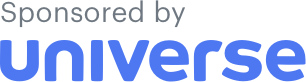
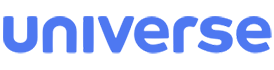
Add information about the companies which use the gem

diff --git a/README.md b/README.md
@@ -8,6 +8,20 @@
 
 This gem provides a generic lazy batching mechanism to avoid N+1 DB queries, HTTP queries, etc.
 
+Developers from these companies use `BatchLoader`:
+
+<a href="https://about.gitlab.com/"><img src="images/gitlab.png" height="35" width="114" alt="GitLab" style="max-width:100%;"></a>
+<img src="images/space.png" height="35" width="10" alt="" style="max-width:100%;">
+<a href="https://www.netflix.com/"><img src="images/netflix.png" height="35" width="110" alt="Netflix" style="max-width:100%;"></a>
+<img src="images/space.png" height="35" width="10" alt="" style="max-width:100%;">
+<a href="https://www.alibaba.com/"><img src="images/alibaba.png" height="35" width="86" alt="Alibaba" style="max-width:100%;"></a>
+<img src="images/space.png" height="35" width="10" alt="" style="max-width:100%;">
+<a href="https://www.universe.com/"><img src="images/universe.png" height="35" width="137" alt="Universe" style="max-width:100%;"></a>
+<img src="images/space.png" height="35" width="10" alt="" style="max-width:100%;">
+<a href="https://www.wealthsimple.com/"><img src="images/wealthsimple.png" height="35" width="150" alt="Wealthsimple" style="max-width:100%;"></a>
+<img src="images/space.png" height="35" width="10" alt="" style="max-width:100%;">
+<a href="https://decidim.org/"><img src="images/decidim.png" height="35" width="94" alt="Decidim" style="max-width:100%;"></a>
+
 ## Contents
 
 * [Highlights](#highlights)
@@ -29,10 +43,6 @@ This gem provides a generic lazy batching mechanism to avoid N+1 DB queries, HTT
 * [Alternatives](#alternatives)
 * [License](#license)
 * [Code of Conduct](#code-of-conduct)
-
-<a href="https://www.universe.com/" target="_blank" rel="noopener noreferrer">
-  <img src="images/universe.png" height="41" width="153" alt="Sponsored by Universe" style="max-width:100%;">
-</a>
 
 ## Highlights
 
